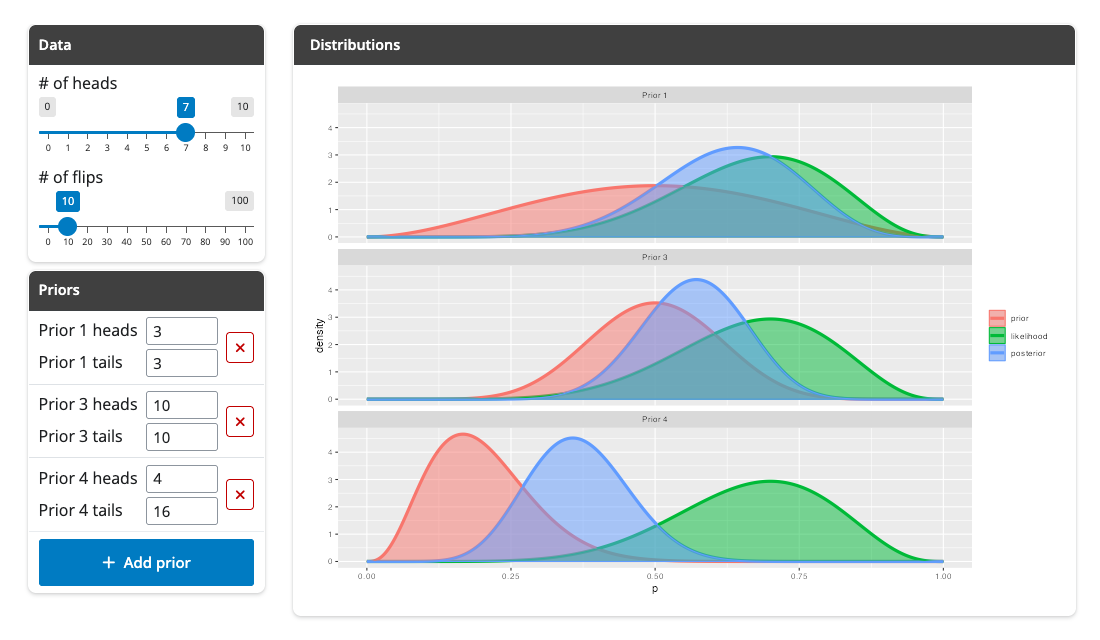
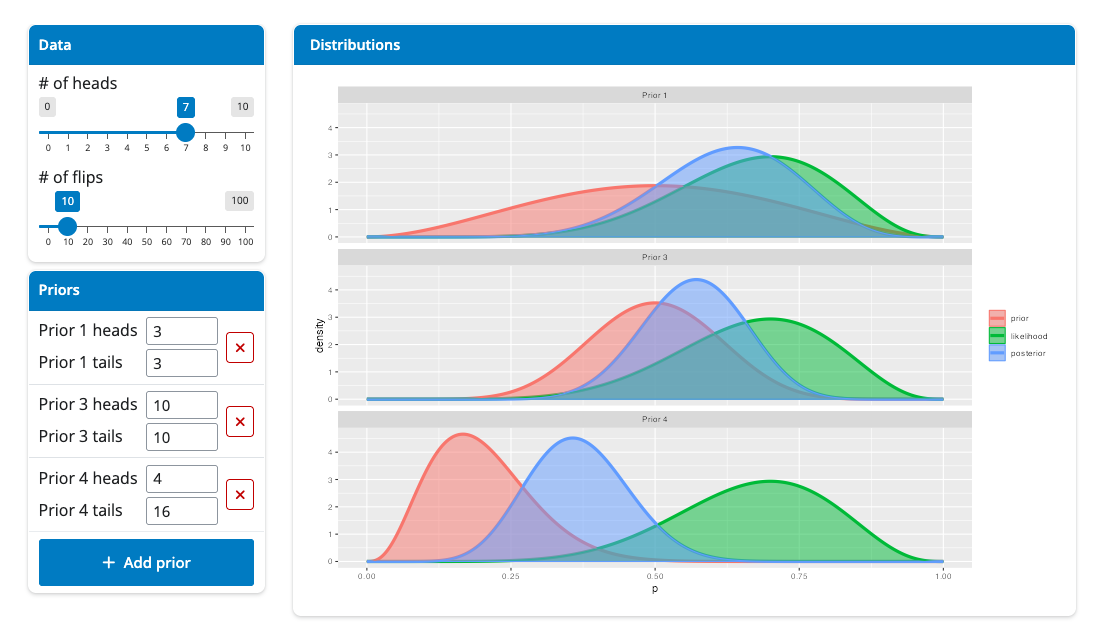
Make update

Changed region(s): [[0.0, 0.0312, 0.9891, 0.125], [0.0, 0.375, 0.2473, 0.5]]

diff --git a/static/slides/notes/Lec23_app.py b/static/slides/notes/Lec23_app.py
@@ -60,12 +60,12 @@ app_ui = ui.page_fillable(
     ui.layout_columns(
         ui.div(
             ui.card(
-                ui.card_header("Data", class_="text-bg-secondary"),
+                ui.card_header("Data", class_="text-bg-primary"),
                 ui.input_slider("x", "# of heads", min=0, max=100, value=7),
                 ui.input_slider("n", "# of flips", min=0, max=100, value=10),
             ),
             ui.card(
-                ui.card_header("Priors", class_="text-bg-secondary"),
+                ui.card_header("Priors", class_="text-bg-primary"),
                 ui.div(id="priors"),
                 ui.card_footer(
                     ui.input_action_button(
@@ -76,7 +76,7 @@ app_ui = ui.page_fillable(
             class_="controls overflow-auto px-1 pb-1",
         ),
         ui.card(
-            ui.card_header("Distributions", class_="text-bg-secondary"),
+            ui.card_header("Distributions", class_="text-bg-primary"),
             ui.output_plot("plot"),
         ),
         col_widths=(3, 9),
